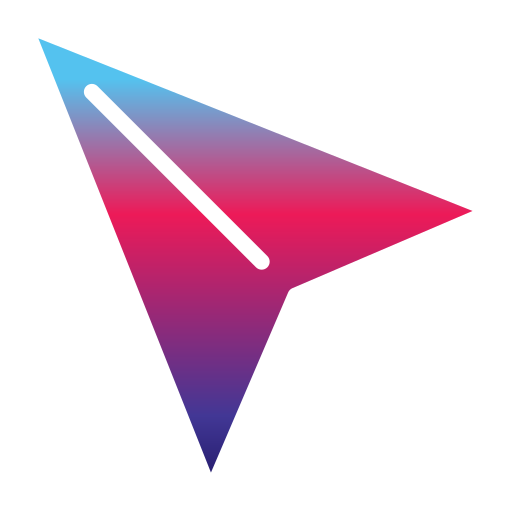
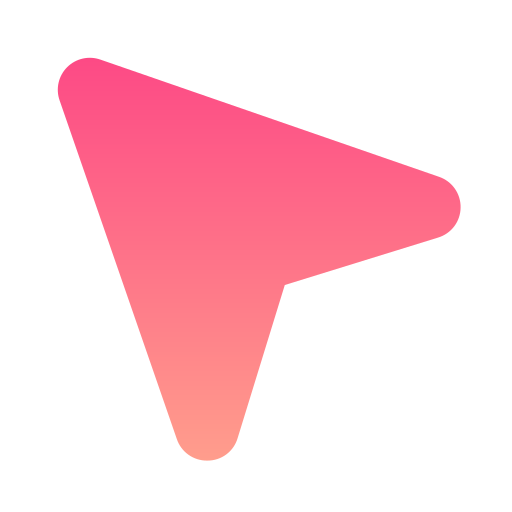
change the cursor

Changed region(s): [[0.0625, 0.0625, 0.9375, 0.9375]]

diff --git a/CSS/Style.css b/CSS/Style.css
@@ -41,7 +41,13 @@
     box-sizing: border-box; /*total hight&width are set, padding and border will be inside the border*/
 }
 
-body{  background: var(--backgroung-img); }
+
+
+body{  
+    background: var(--backgroung-img);
+    cursor: url("../Media/cursor.png"), auto; 
+}
+
 
 h1, h2{
     margin: 0;
@@ -70,9 +76,13 @@ a, p, label, input,small{
 
 img{ width: 150px; height: 150px; }
 
-li { list-style: none; }
+li { list-style: none; display: inline-block;}
 
-ion-icon { height: 30; width:30; }
+ion-icon { 
+    height: 30;
+    width:30;
+    color: var(--text-color);    
+}
 
 .container{
     margin-top: 20px;
@@ -84,7 +94,6 @@ ion-icon { height: 30; width:30; }
     position: fixed;
     top: 10px;
     left: 10px;
-    background-color: rgba(0,0,0,0.2);
 }
 
 .logo img{
@@ -102,7 +111,7 @@ ion-icon { height: 30; width:30; }
     display: flex;
     justify-content: left;
     align-items: center;
-    background-color: rgba(0,0,0,0.2);
+    background-color: rgba(255,255,255,0.2);
 }
 
 .title-info img{
@@ -126,7 +135,11 @@ ion-icon { height: 30; width:30; }
 .games-list{
     display: grid;
     gap: 50px;
-    grid-template-columns: repeat(1, 4fr);
+    columns: 2;
+}
+
+.games-list li{
+    display: block;
 }
 
 .game-container{
